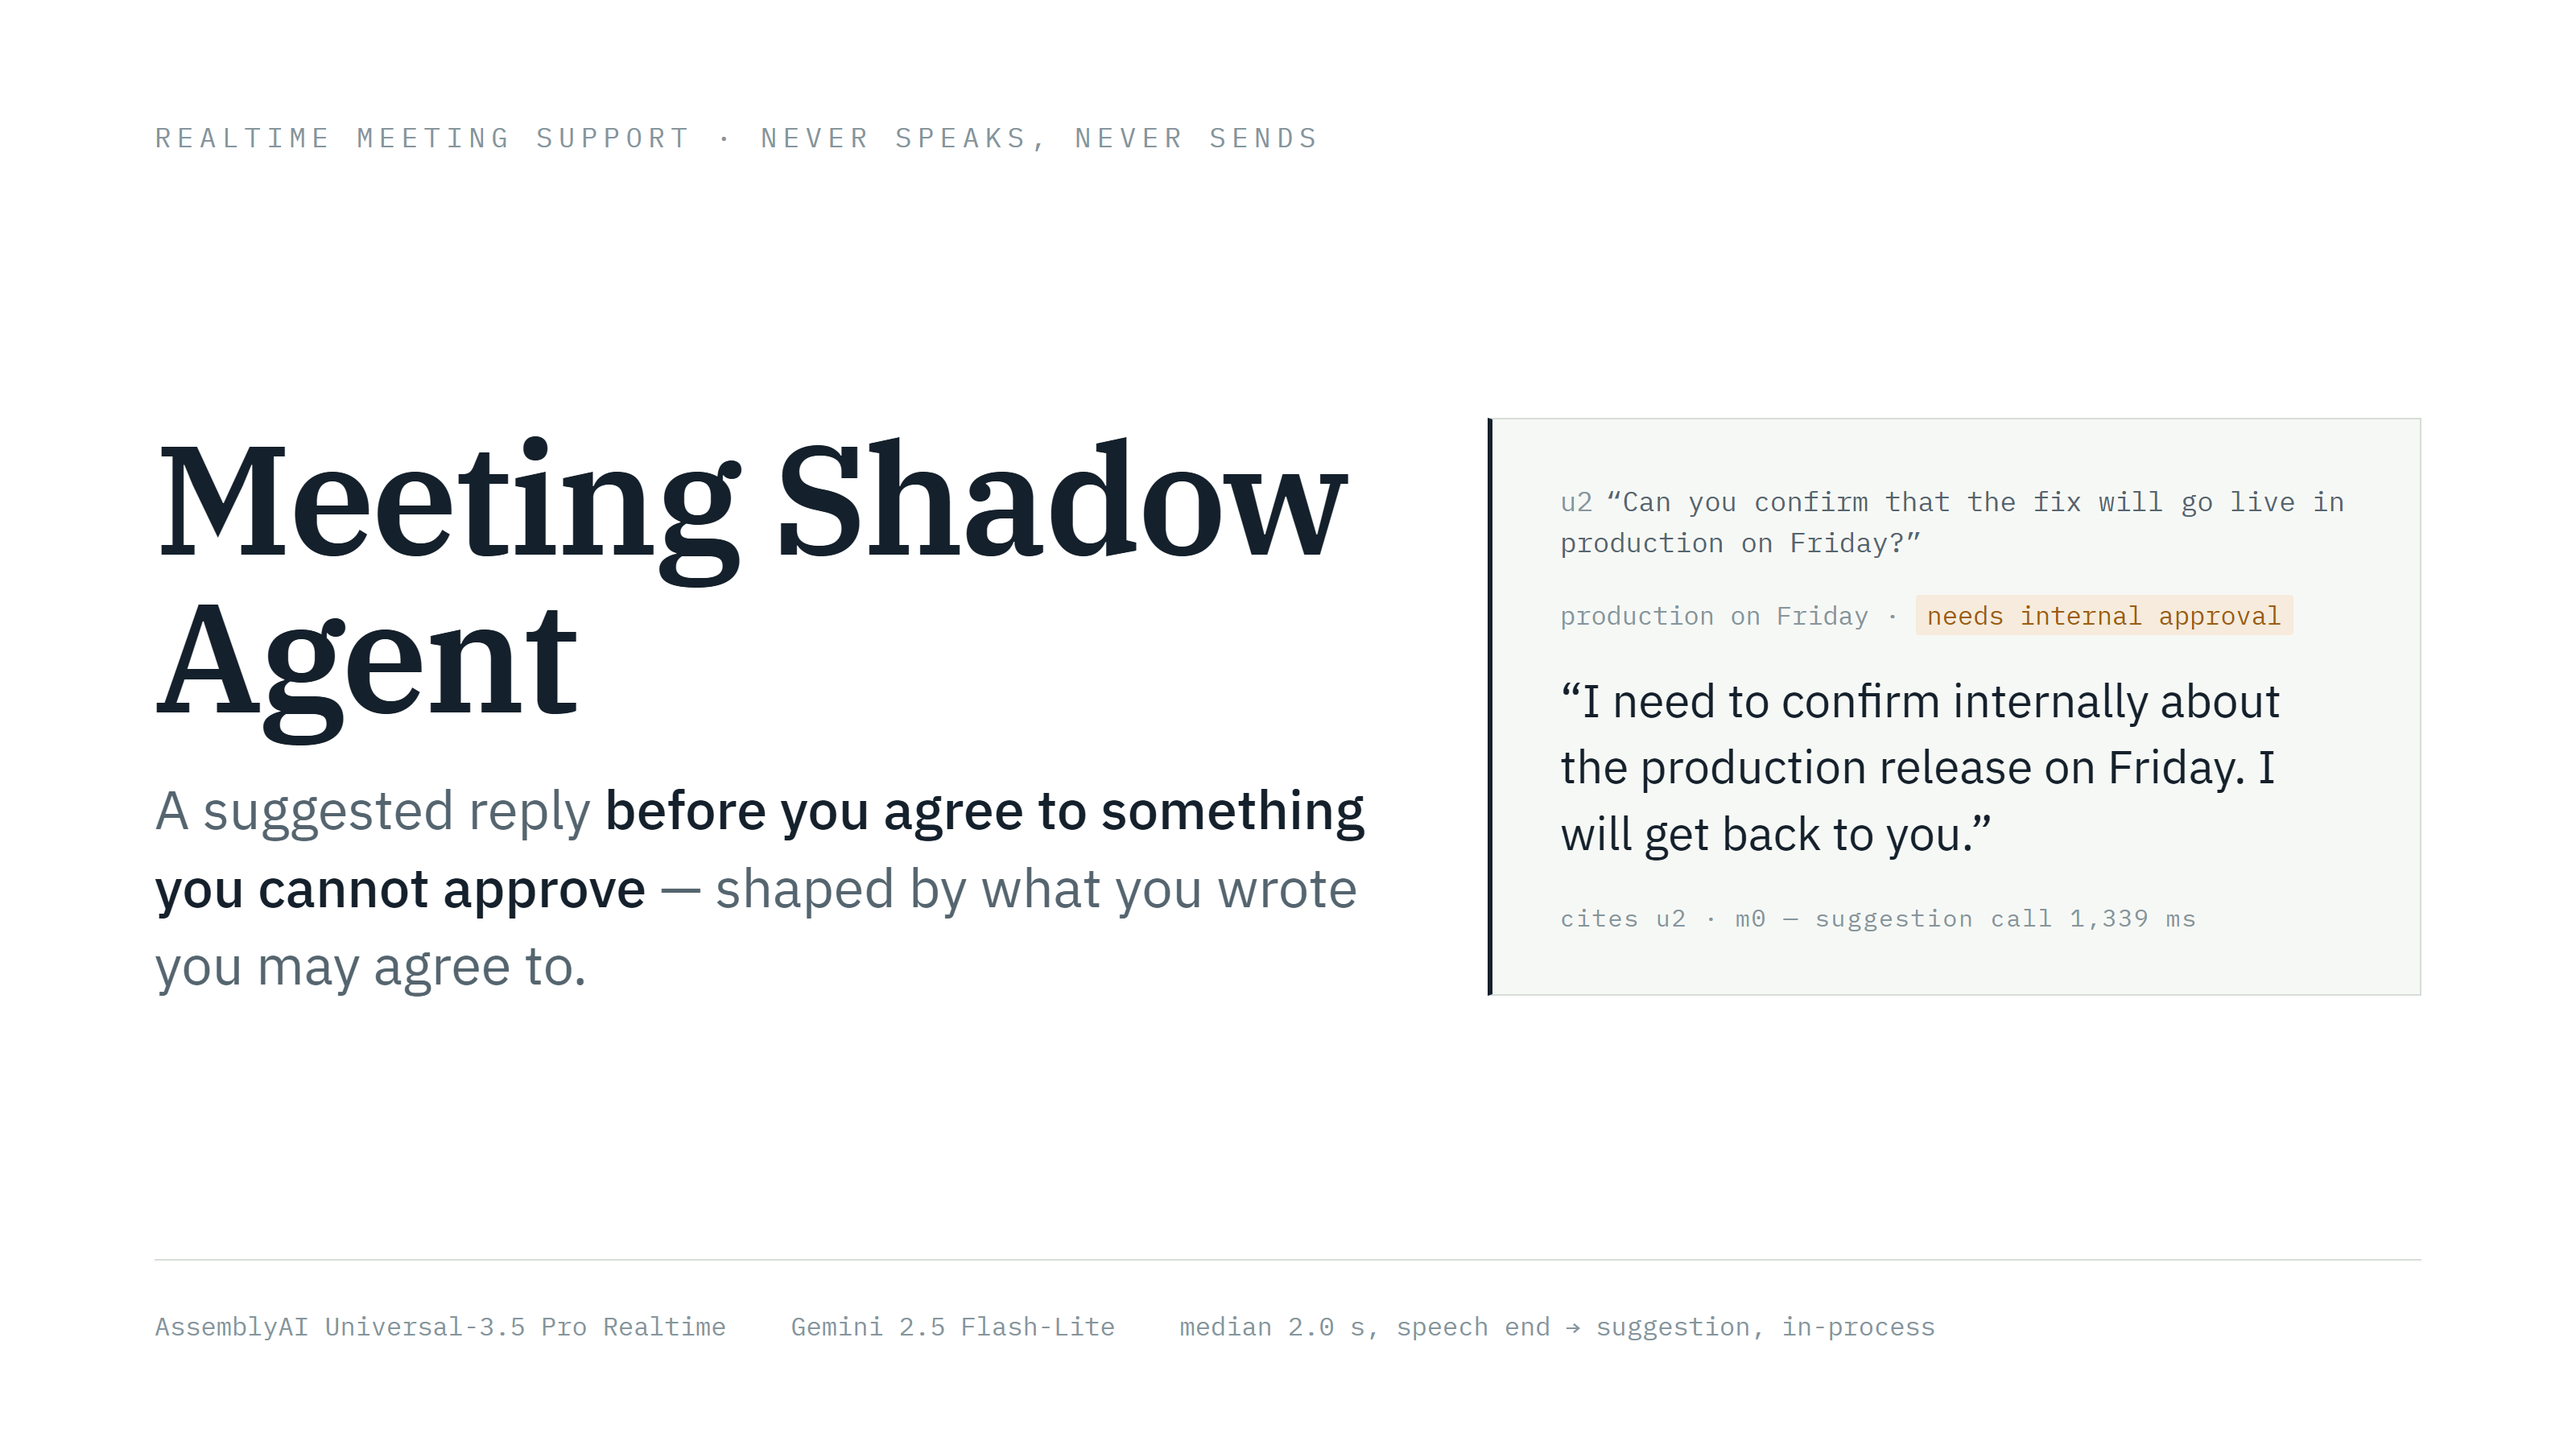
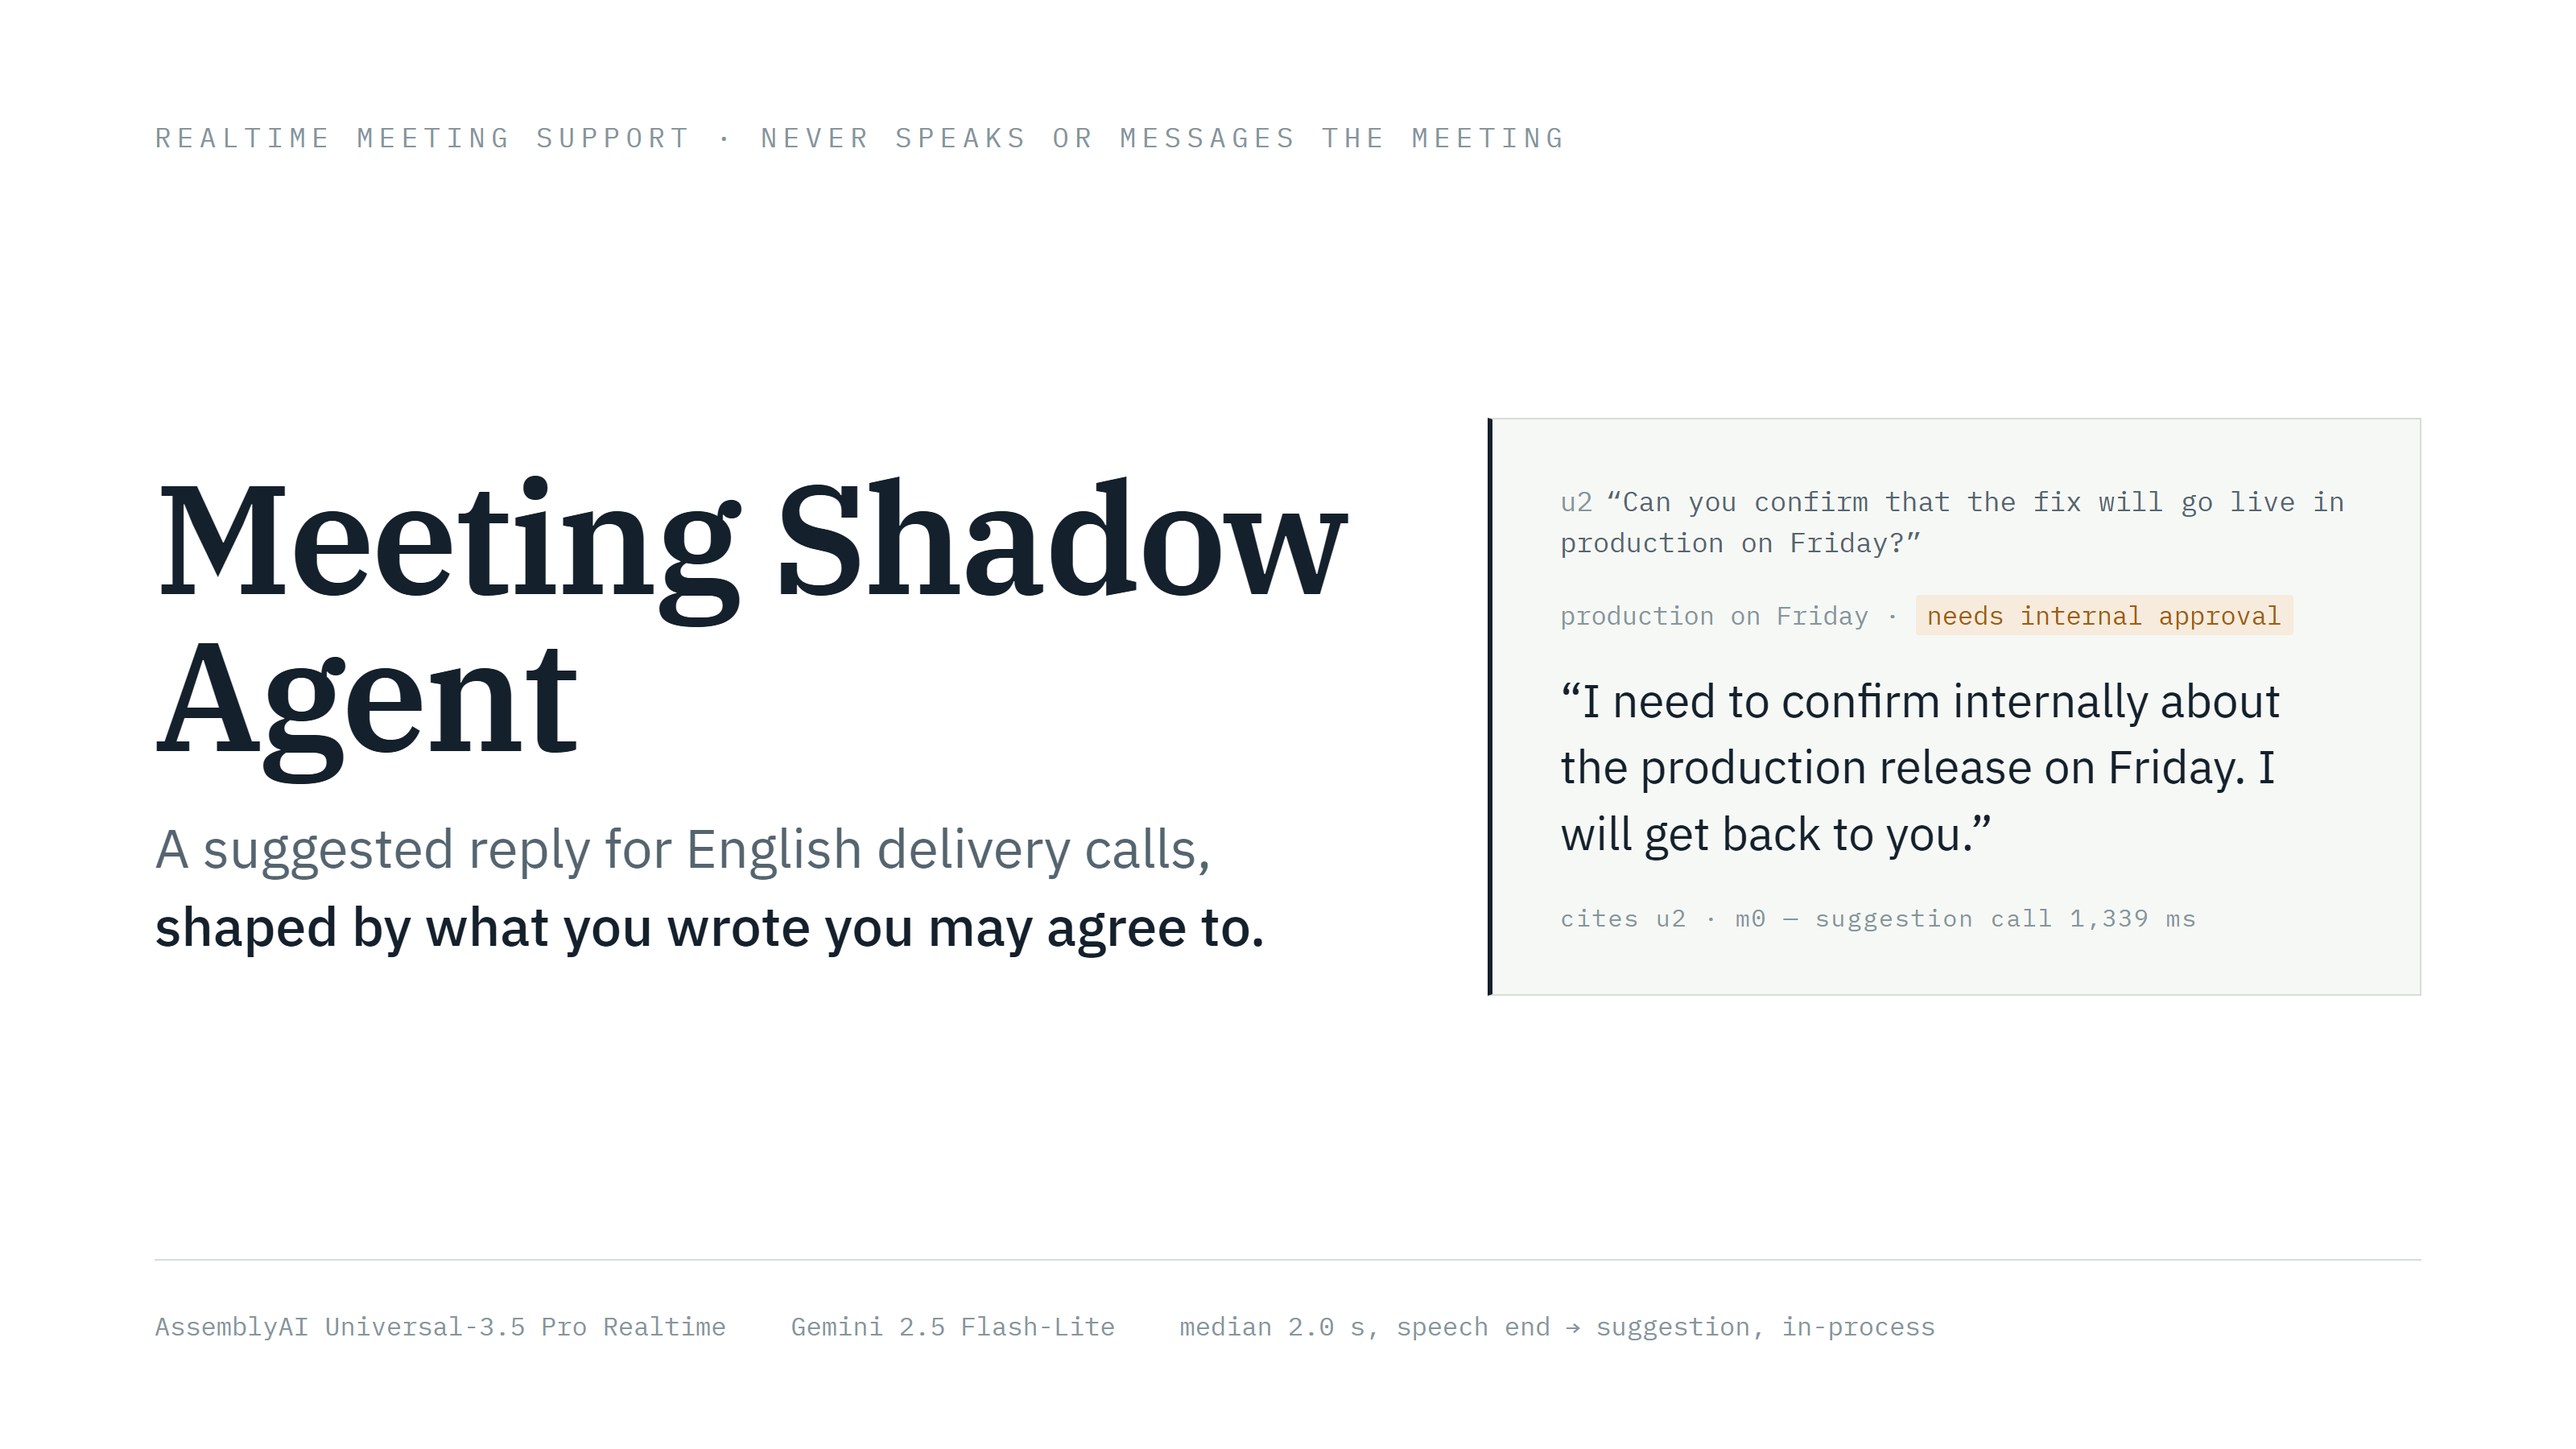
Say on the cover what the prototype does, not that it stops an agreement in time

Changed region(s): [[0.0625, 0.28, 0.5312, 0.6844]]

diff --git a/docs/submission/cover.html b/docs/submission/cover.html
@@ -47,12 +47,12 @@
 </style>
 
 <div class="cover">
-  <div class="eyebrow">Realtime meeting support · never speaks, never sends</div>
+  <div class="eyebrow">Realtime meeting support · never speaks or messages the meeting</div>
   <div class="mid">
     <div>
       <h1>Meeting Shadow Agent</h1>
-      <p class="promise">A suggested reply <b>before you agree to something you cannot
-        approve</b> — shaped by what you wrote you may agree to.</p>
+      <p class="promise">A suggested reply for English delivery calls, <b>shaped by what you
+        wrote you may agree to.</b></p>
     </div>
     <div class="card">
       <div class="heard"><span>u2</span>“Can you confirm that the fix will go live in production on Friday?”</div>
